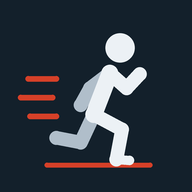
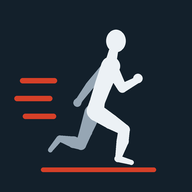
Icône : coureur plus anatomique
Claude-Session: https://claude.ai/code/session_012rdGDNNL5uzxrt2aLFQewf

diff --git a/index.html b/index.html
@@ -11,8 +11,8 @@
 <meta name="apple-mobile-web-app-status-bar-style" content="black-translucent">
 <meta name="apple-mobile-web-app-title" content="Foulée">
 <link rel="manifest" href="manifest.webmanifest">
-<link rel="apple-touch-icon" href="icon-180.png?v=2">
-<link rel="icon" type="image/png" href="icon-192.png?v=2">
+<link rel="apple-touch-icon" href="icon-180.png?v=3">
+<link rel="icon" type="image/png" href="icon-192.png?v=3">
 <link rel="preconnect" href="https://fonts.googleapis.com">
 <link rel="preconnect" href="https://fonts.gstatic.com" crossorigin>
 <link rel="stylesheet" href="https://fonts.googleapis.com/css2?family=Barlow+Condensed:wght@500;600;700&family=Barlow:wght@400;500;600&display=swap">

diff --git a/sw.js b/sw.js
@@ -1,5 +1,5 @@
 // Foulée — service worker: works offline, picks up new versions when online.
-const VERSION = 'foulee-v2';
+const VERSION = 'foulee-v3';
 const FONTS = 'foulee-fonts';
 const SHELL = ['./', 'index.html', 'manifest.webmanifest', 'icon-180.png', 'icon-192.png', 'icon-512.png'];
 
